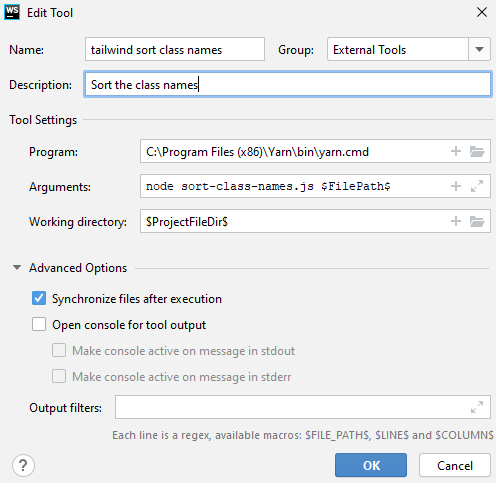
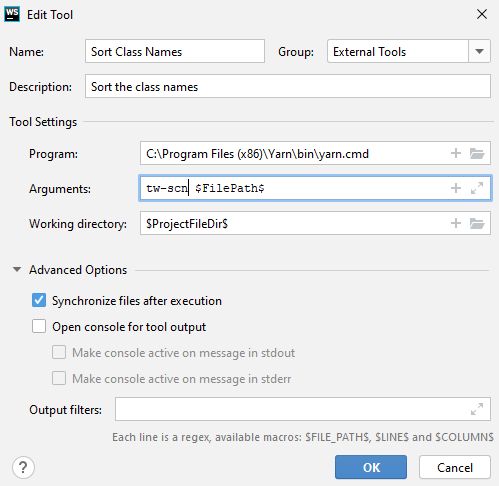
udpate readme

diff --git a/README.md b/README.md
@@ -22,7 +22,7 @@ Neues external tool erstellen via [Settings > Tools > External Tools > +](https:
 
 1. `Program:` => path to yarn-binary (e.g. `C:\Program Files (x86)\Yarn\bin\yarn`)
 1. `Arguments`: `node sort-class-names.js $FilePath$`
-    - `node sort-class-names.js` (script from this repo - you need to copy it into your workspace)
+    - `tw-scn` (script from this repo - you need to copy it into your workspace)
     - (empty space to seperate the script from its argument)
     - `$FilePath$` which is the currently edited file
 1. `Working Directory:` => `$ProjectFileDir$` (so that the node-script can use the node_modules folder correctly with the correct wrking dir)
